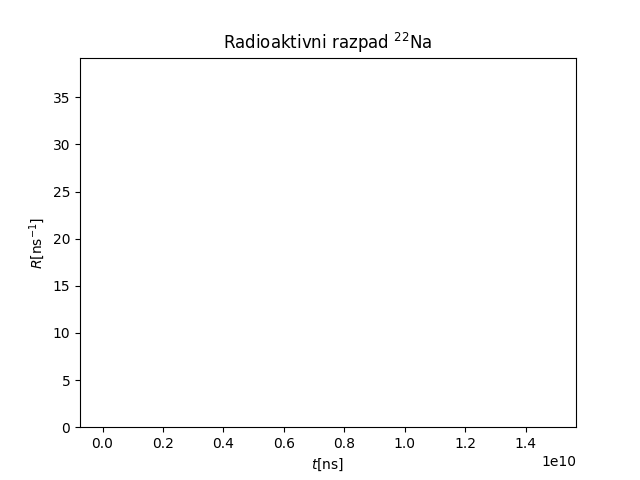
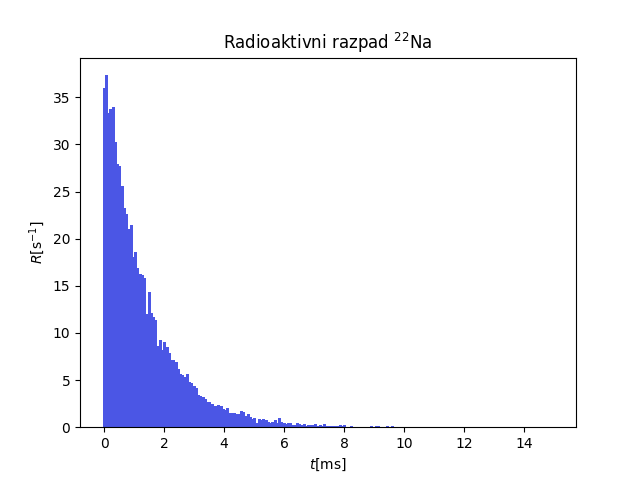
fix: no more buggs

diff --git a/08gammagamma/source/obdelovanja_08gg.py b/08gammagamma/source/obdelovanja_08gg.py
@@ -18,6 +18,11 @@ c1, c2, c3 =  cmr.take_cmap_colors('cmr.cosmic', 3, cmap_range=(.5, 1.),
 def linear(x, k, n):
     return k * x + n
 
+# testing casovna locljivost z Gaussom
+
+def gauss(x, C, mi, sigma):
+    return C * np.exp(- (x - mi) ** 2 / (2 * sigma ** 2))
+
 # for eliminating zero and negative values
 
 def masking(x, y):
@@ -30,15 +35,20 @@ dataCasLoc = np.loadtxt('../meritve/casovna_locljivost_data.txt')
 
 plt.bar(dataCasLoc[:, 0], dataCasLoc[:, 1], width=0.005, color=c1)
 
+fitparCasLoc, fitcovCasLoc = curve_fit(gauss, dataCasLoc[:, 0], dataCasLoc[:, 1])
+
+print("C, mi, sigma: ", fitparCasLoc, np.sqrt(np.diag(fitcovCasLoc)))
+
+gauss_fit = gauss(dataCasLoc[:, 0], *fitparCasLoc)
+
+plt.plot(dataCasLoc[:, 0], gauss_fit, color=c3, label='regresija')
 # omejitev x osi za lepši, more concise graf
-'''
 plt.xlim(-0.1, 0.1)
 
 plt.xlabel(r'$t [\mathrm{ns}]$')
 plt.ylabel(r'$N$')
 plt.title('Časovna ločljivost TDC')
 plt.savefig('../porocilo/figures/casovna_locljivost.png')
-'''
 plt.close()
 
 # --- radioaktivni razpad ---
@@ -46,12 +56,15 @@ plt.close()
 dataRadRaz = np.loadtxt('../meritve/radioaktivni_razpad_data.txt')
 casMerjenjaRadRaz = 31.6
 
+casRadRaz = dataRadRaz[:, 0] /1e9
+meritveRadRaz = dataRadRaz[:, 1] / casMerjenjaRadRaz
+
 # Graf radioaktivnih razpadov
 
-plt.bar(dataRadRaz[:, 0], dataRadRaz[:, 1] / casMerjenjaRadRaz, width=0.005, color=c1)
+plt.bar(casRadRaz, meritveRadRaz, width=0.1, color=c1)
 
-plt.xlabel(r'$t [\mathrm{ns}]$')
-plt.ylabel(r'$R [\mathrm{ns}^{-1}]$')
+plt.xlabel(r'$t [\mathrm{ms}]$')
+plt.ylabel(r'$R [\mathrm{s}^{-1}]$')
 plt.title(r'Radioaktivni razpad $^{22} \mathrm{Na}$ ')
 plt.savefig('../porocilo/figures/radio_razpad.png')
 plt.close()
